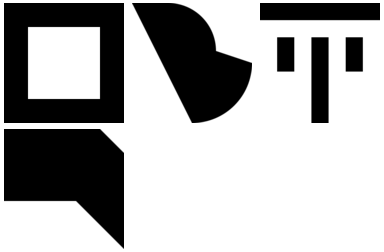
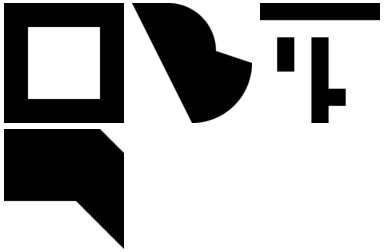
arc & sorting bug fixes

Changed region(s): [[0.875, 0.1389, 0.9688, 0.3056], [0.8438, 0.3333, 0.9062, 0.4444]]

diff --git a/src/scripts/util/lexer.js b/src/scripts/util/lexer.js
@@ -56,25 +56,23 @@ const tokenReplacements = [
         name: 'Silver Ratio',
         regex: /sr/,
         fn(str, matches) {
-            // console.log(matches);
             const result = str.replace(matches[0], Math.sqrt(2));
-            // console.log("reult", result);
             return result;
         },
     },
     {
         regex: /(-?\d*)u/,
         fn(str, matches, { gridUnit }) {
-            console.log(str, matches);
             return str.replace(matches[0], +matches[1] * gridUnit);
         },
     },
     {
         regex: /(-?[\d|\.]*)([w|h])$/,
         fn(str, matches, { width, height }) {
-            console.log(str, matches);
             const multiplier = matches[1]
-                ? matches[1] === '-' ? -1 : matches[1]
+                ? matches[1] === '-'
+                    ? -1
+                    : matches[1]
                 : 1;
             return (
                 clamp(+multiplier, -1, 1) * { w: width, h: height }[matches[2]]
@@ -97,7 +95,7 @@ const tokenReplacements = [
     {
         regex: /^c$/,
         fn(str, matches, { gridUnit, yUnits, xUnits }) {
-            return `${gridUnit * xUnits / 2} ${gridUnit * yUnits / 2}`;
+            return `${(gridUnit * xUnits) / 2} ${(gridUnit * yUnits) / 2}`;
         },
     },
     // Multiplication & division
@@ -105,7 +103,6 @@ const tokenReplacements = [
         regex: /^(.+?)[\*|\/](.+?)$/,
         fn(str, matches) {
             const isMultiplication = str.includes('*');
-            console.log('Multmatch', str, matches);
             if (isMultiplication) {
                 return +matches[1] * +matches[2];
             } else {
@@ -167,8 +164,6 @@ export default function(string) {
                 tokenArgs = [...argStr.matchAll(argsRegEx)]
                     .map(match => match[1])
                     .filter(match => match !== undefined);
-
-                console.log('Token args', argStr, tokenArgs);
 
                 tokenArgs = tokenArgs.map(arg => {
                     return arg

diff --git a/src/scripts/util/parser.js b/src/scripts/util/parser.js
@@ -88,7 +88,8 @@ const elements = {
         (tokens || []).forEach((token, idx) => {
             const { name, args } = token;
             let string = '';
-            if (isDrawCommand(name)) {
+            console.log(token);
+            if (isPointOrVector(name)) {
                 const [i, j] = args;
                 let command;
                 if (name === 'point') {
@@ -110,9 +111,10 @@ const elements = {
                 }
                 string = `${command} ${i} ${j}`;
             } else if (name === 'arc') {
-                string = `${idx ? 'L' : 'M'} ${tokenToSVGArc(token)}`;
+                console.log('Arc args', token);
                 currentLocation.x = token.args[0];
                 currentLocation.y = token.args[1];
+                string = `${idx ? 'L' : 'M'} ${tokenToSVGArc(token)}`;
             } else if (name === 'corner') {
                 // const nextToken = tokenGroup.tokens[idx + 1];
                 const center = { x: args[0], y: args[1] };
@@ -152,10 +154,6 @@ const elements = {
     },
 };
 
-function isDrawCommand(name) {
-    return ['vector', 'point', 'arc'].includes(name);
-}
-
 export default function(tokens) {
     let state = Store.getState();
     let parseTree = { children: [], token: { name: 'root' } };
@@ -192,11 +190,6 @@ export default function(tokens) {
 
     const output = { grids: [], paths: null };
 
-    // <path>
-    // <path>
-    // <path>
-    // </path>
-
     function iterateNodes(node) {
         if (node.token.name === 'grid') {
             output.grids.push(elements['grid'](node));
@@ -222,6 +215,13 @@ export default function(tokens) {
 
     console.log('TREE', parseTree);
     output.paths = iterateNodes(parseTree);
-    console.log('OUTPUT', output);
+    // console.log('OUTPUT', output);
     return output;
+}
+
+function isDrawCommand(name) {
+    return ['vector', 'point', 'arc'].includes(name);
+}
+function isPointOrVector(name) {
+    return ['vector', 'point'].includes(name);
 }

diff --git a/src/scripts/workspace/index.js b/src/scripts/workspace/index.js
@@ -127,7 +127,6 @@ class Workspace extends Component {
                 'Content-Type': 'application/json',
             },
         }).then(res => {
-            console.log(res);
             if (res.status === 200) {
                 this.getRunes();
             }
@@ -135,7 +134,6 @@ class Workspace extends Component {
     };
 
     deleteRune = id => {
-        console.log('Id', id);
         fetch('/rune', {
             method: 'delete',
             headers: {
@@ -189,20 +187,19 @@ class Workspace extends Component {
                     setExample={this.setExample}
                     handleCursorChange={this.cursorChange}
                 />
-                {parsed &&
-                    rune && (
-                        <Fragment>
-                            <Preview rendered={rune.svg} />
-                            <Renderer
-                                mode={state.app.mode}
-                                width={width}
-                                height={height}
-                                rune={rune}
-                                elements={parsed}
-                                lexed={lexed}
-                            />
-                        </Fragment>
-                    )}
+                {parsed && rune && (
+                    <Fragment>
+                        <Preview rendered={rune.svg} />
+                        <Renderer
+                            mode={state.app.mode}
+                            width={width}
+                            height={height}
+                            rune={rune}
+                            elements={parsed}
+                            lexed={lexed}
+                        />
+                    </Fragment>
+                )}
             </div>
         );
     }

diff --git a/src/styles/main.scss b/src/styles/main.scss
@@ -2,22 +2,9 @@
 
 //= require lib/normalize.css
 
-@import 'base/measure',
-    'base/global',
-    'base/colors',
-    'base/helpers',
-    'base/type',
-    'workspace/header',
-    'workspace/layout',
-    'workspace/dialogue',
-    'components/form',
-    'components/action-bar',
-    'components/svg',
-    'components/tablet',
-    'components/renderer',
-    'components/components',
-    'components/path-panel',
-    'components/sheet',
-    'components/overlay',
-    'components/tools',
-    'components/panels';
+@import 'base/measure', 'base/global', 'base/colors', 'base/helpers',
+    'base/type', 'workspace/header', 'workspace/layout', 'workspace/dialogue',
+    'components/form', 'components/action-bar', 'components/svg',
+    'components/tablet', 'components/renderer', 'components/components',
+    'components/path-panel', 'components/sheet', 'components/overlay',
+    'components/tools', 'components/panels';

diff --git a/server/server.js b/server/server.js
@@ -36,8 +36,6 @@ app.route('/rune')
 
         const filePath = `${storage}/${rune.id}.json`;
 
-        console.log('Saving svg', rune.svg);
-
         svg2img(rune.svg, (error, buffer) => {
             //returns a Buffer
             const thumbFileName = `${rune.id}.png`;
@@ -113,7 +111,11 @@ app.get('/runes', (req, res) => {
         return JSON.parse(fs.readFileSync(f, 'utf-8'));
     });
     runes.sort((a, b) => {
-        return +a.created > +b.created ? 1 : +a.created < +b.created ? -1 : 0;
+        const dateA = +new Date(a.created);
+        const dateB = +new Date(b.created);
+        if (dateA > dateB) return 1;
+        if (dateA < dateB) return -1;
+        return 0;
     });
     res.send(runes);
 });

diff --git a/src/scripts/workspace/components/renderer.js b/src/scripts/workspace/components/renderer.js
@@ -8,8 +8,6 @@ function Renderer(props) {
     const verticalPadding = 40;
     const horizontalPadding = 40;
 
-    console.log(props.elements);
-
     return (
         <div className="renderer">
             <div

diff --git a/src/scripts/workspace/components/browser.js b/src/scripts/workspace/components/browser.js
@@ -1,7 +1,6 @@
 import React, { useState } from 'react';
 
 export default props => {
-    console.log(props);
     return (
         <div className="browser">
             <ul>
